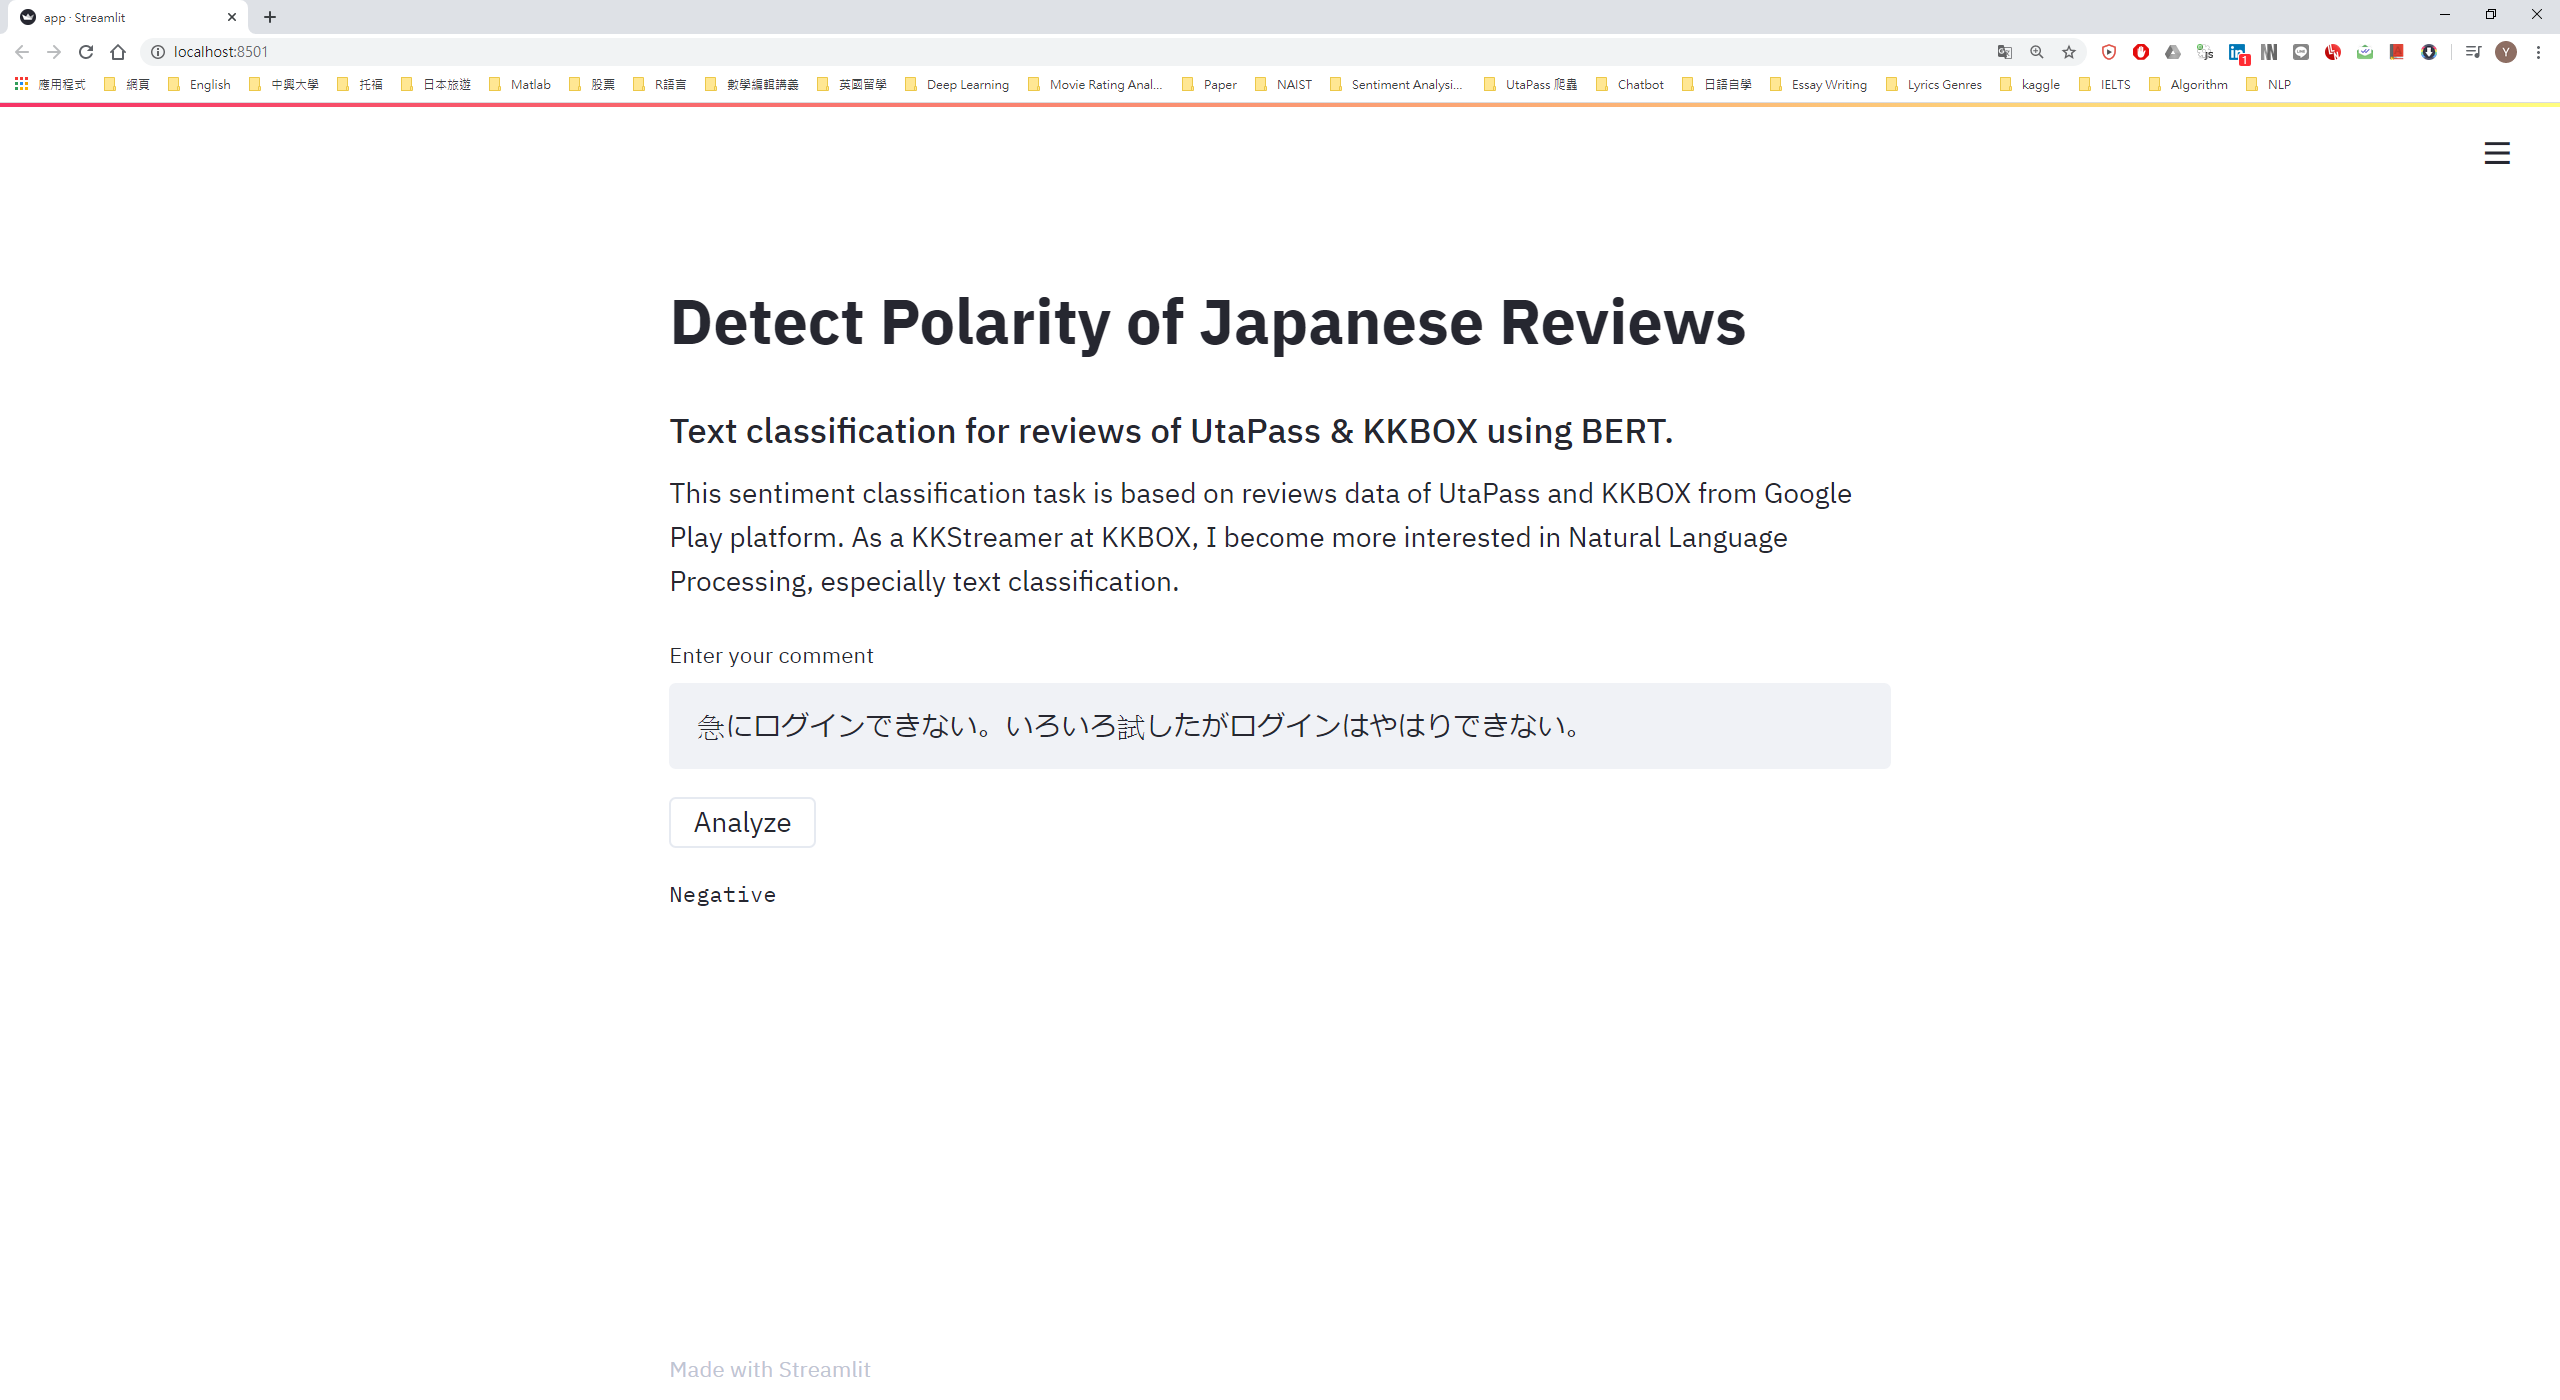
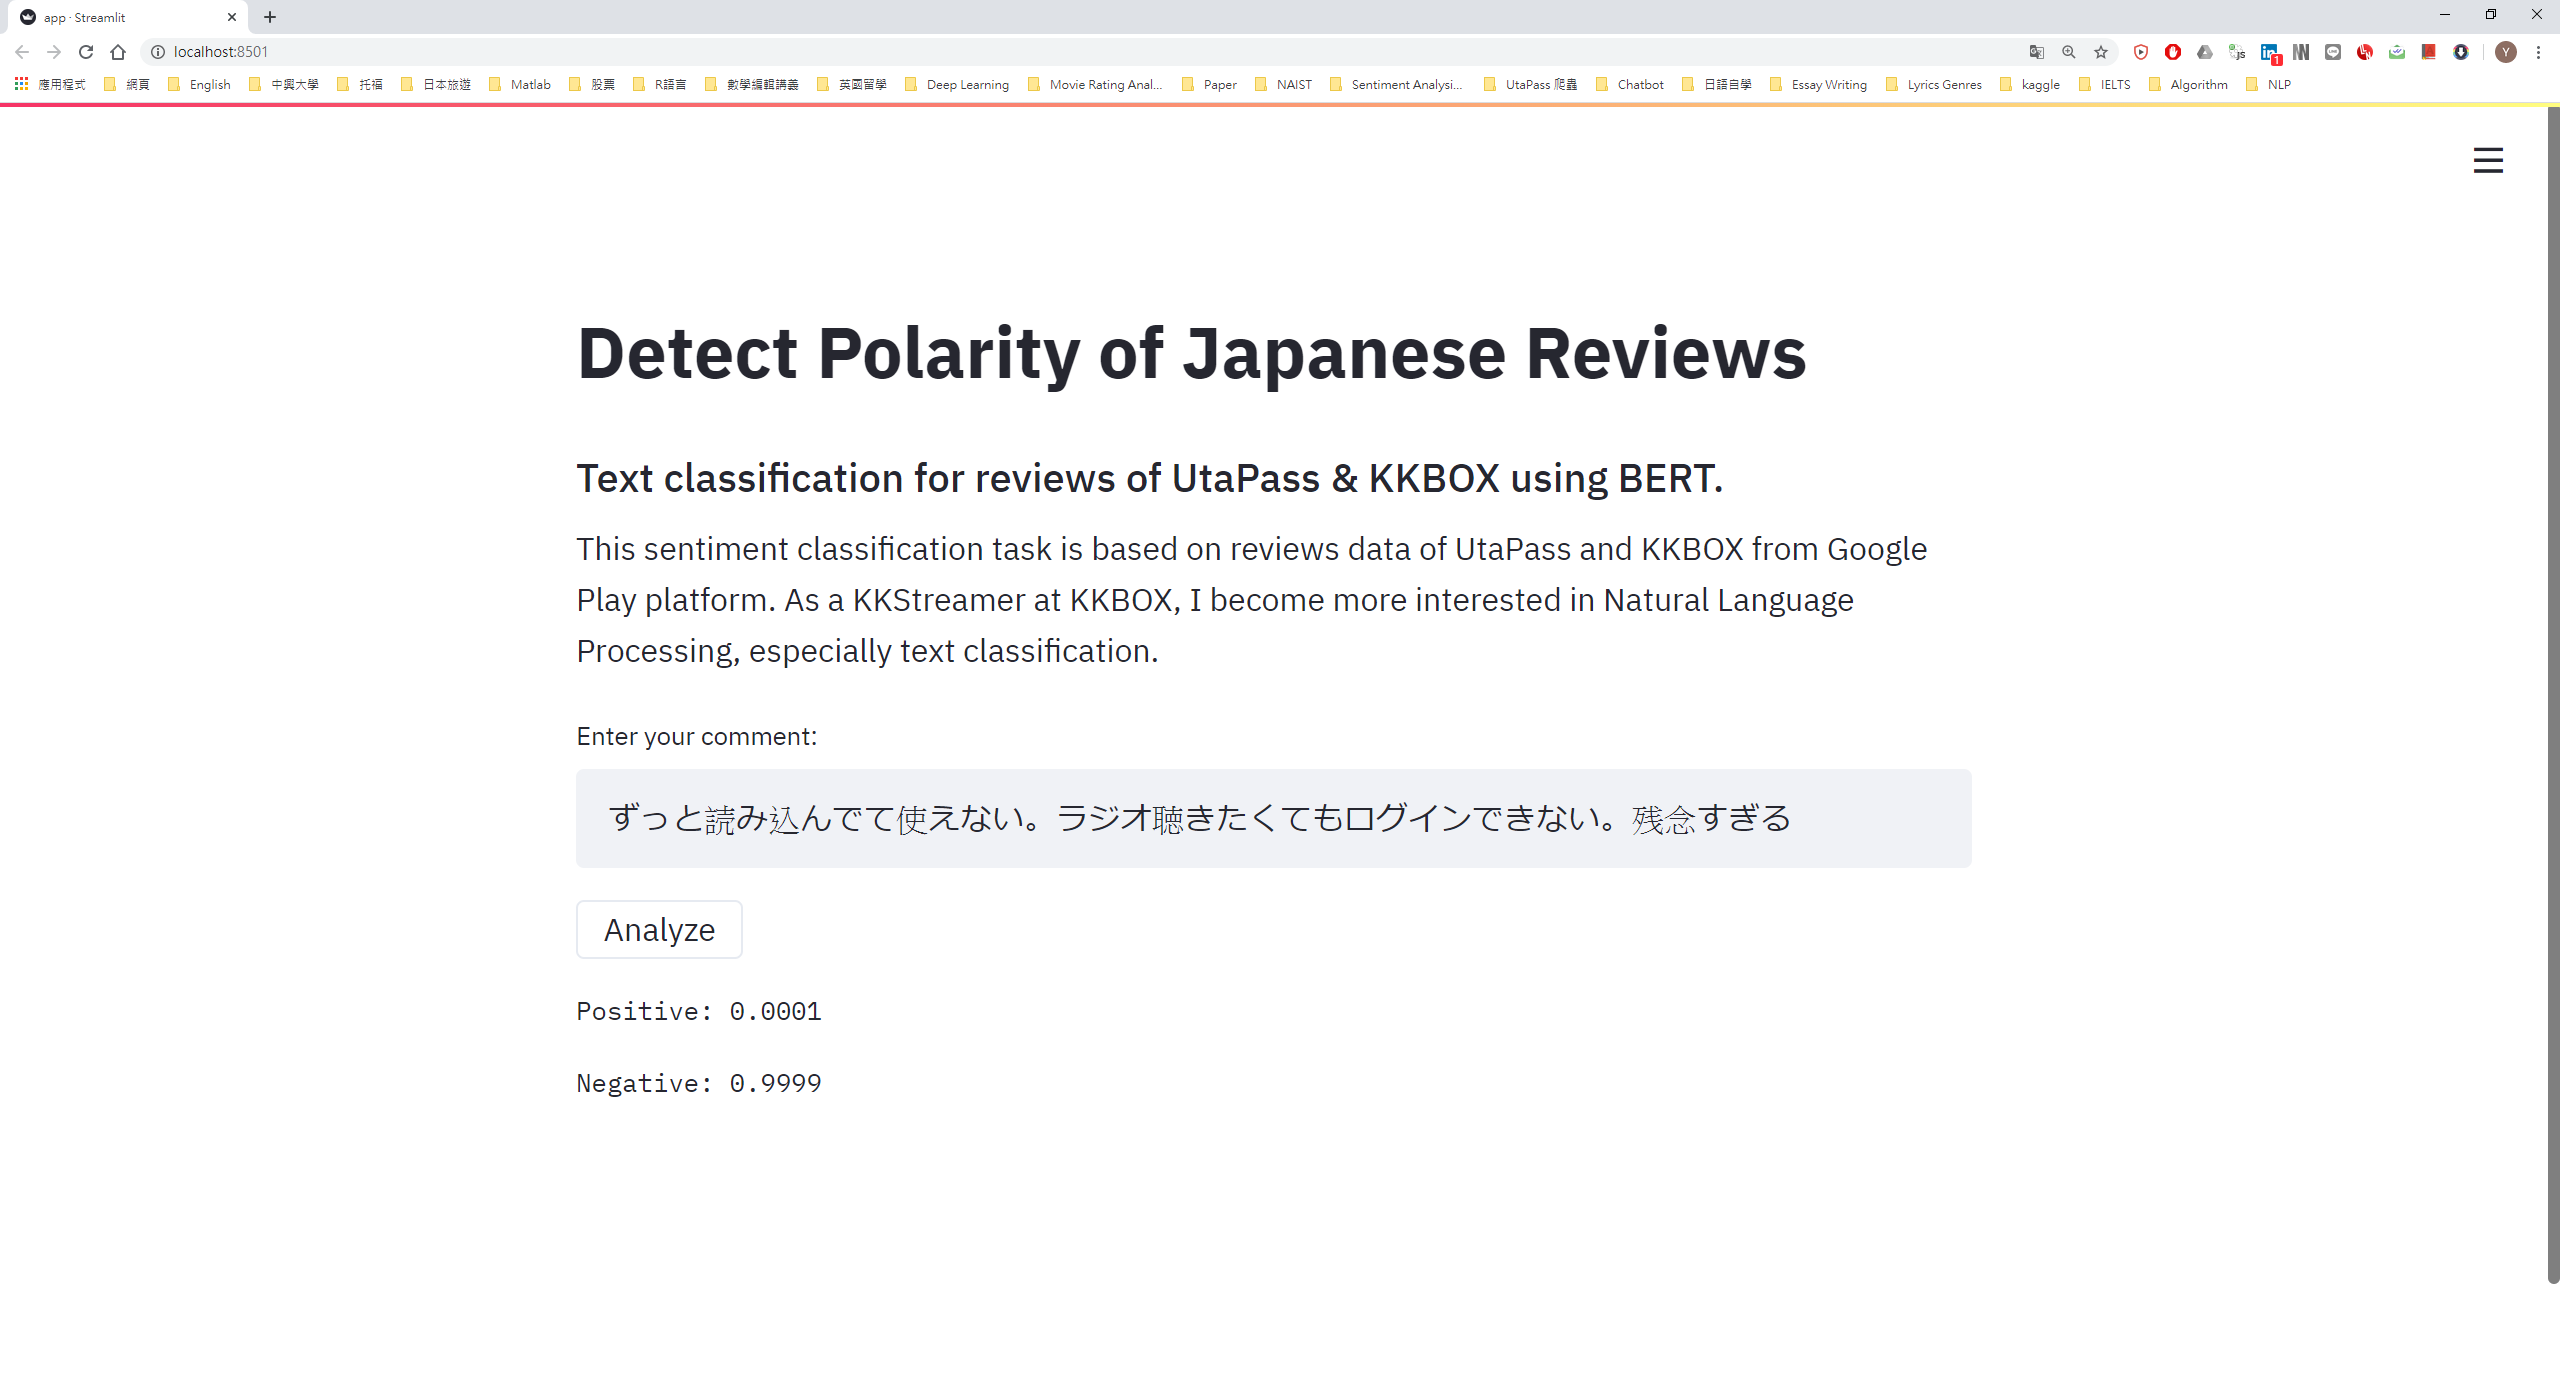
update

diff --git a/app.py b/app.py
@@ -1,12 +1,6 @@
 import streamlit as st
 import re
 import emoji
-import seaborn as sns
-import matplotlib.pyplot as plt
-from sklearn.model_selection import train_test_split
-from sklearn.metrics import f1_score
-from sklearn.metrics import confusion_matrix
-from sklearn.metrics import classification_report
 from collections import defaultdict
 import warnings
 warnings.filterwarnings("ignore")
@@ -80,10 +74,10 @@ def analyze_polarity(text, model, tokenizer, class_name):
         return_tensors="pt")
     
     logits = model(encoding["input_ids"].to("cpu"), encoding["attention_mask"].to("cpu"))
-    prediction = logits.to("cpu")
-    prediction = prediction.tolist()[0]
-    prediction = class_name[argmax(prediction)]
-    return prediction
+    logits = logits.to("cpu")
+    logits = logits.tolist()[0]
+    prediction = class_name[argmax(logits)]
+    return logits, prediction
 
 def main():
     seed_everything()
@@ -98,14 +92,16 @@ def main():
     PRE_TRAINED_MODEL_NAME = 'bert-base-japanese-char-whole-word-masking'
     tokenizer = BertJapaneseTokenizer.from_pretrained(PRE_TRAINED_MODEL_NAME)
     class_name = ["Negative", "Positive"]
-    device = torch.device("cuda:0" if torch.cuda.is_available() else "cpu")
     model = torch.load("best_bert.pkl")
     model.to("cpu")
 
-    message = st.text_input(label="Enter your comment", value="Type here...")
+    message = st.text_input(label="Enter your comment: ", value="Type here...")
     if st.button("Analyze"):
-        data = analyze_polarity(message, model, tokenizer, class_name)
-        st.text(data)
+        logits, prediction = analyze_polarity(message, model, tokenizer, class_name)
+        pos = "Positive: {}".format(round(logits[1], 4))
+        neg = "Negative: {}".format(round(logits[0], 4))
+        st.text(pos)
+        st.text(neg)
 
 if __name__ == "__main__":
     main()
